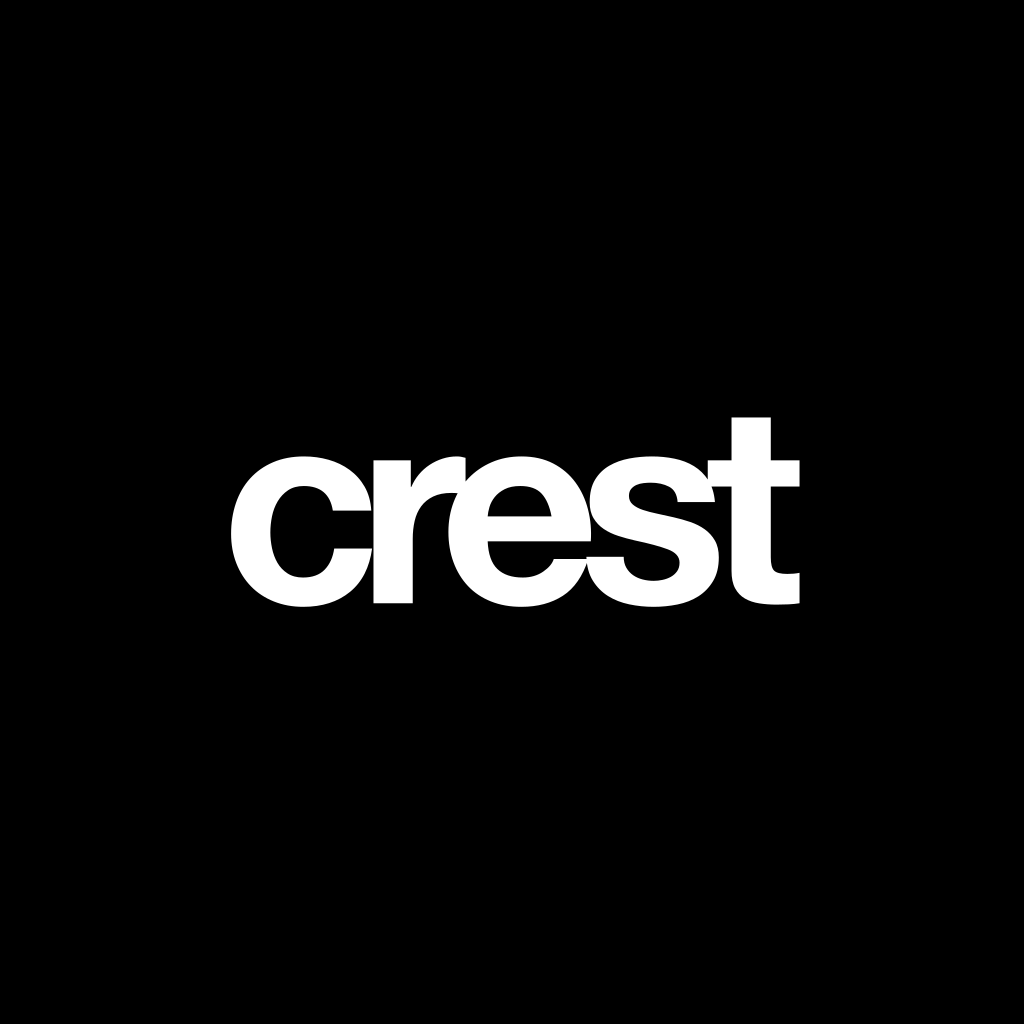
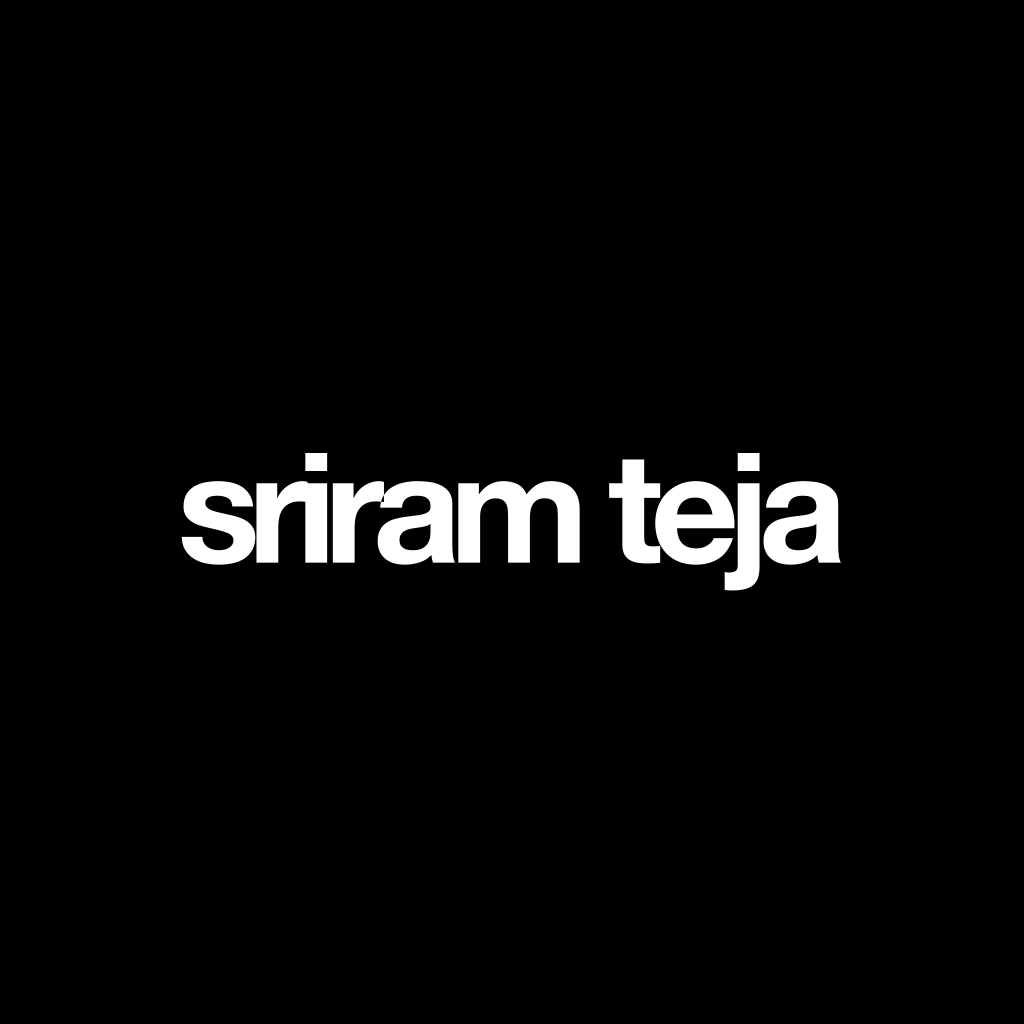
Rename app to sriram teja
- New wordmark, app icon, splash and web title
- Intro redrawn as stroked type for the new name (muted strokes, ink fill, curtain)
- Neutral onboarding copy; storage key migrated with a fallback to the old key

Changed region(s): [[0.1562, 0.4062, 0.8438, 0.5938]]

diff --git a/src/onboarding/Intro.tsx b/src/onboarding/Intro.tsx
@@ -1,23 +1,19 @@
 import React, { useEffect, useRef, useState } from 'react';
 import { Pressable, StyleSheet, Text, useWindowDimensions, View } from 'react-native';
-import Svg, { Path } from 'react-native-svg';
-import { color, touch, type } from '../theme/tokens';
+import Svg, { Defs, LinearGradient, Stop, Text as SvgText } from 'react-native-svg';
+import { color, font, touch, type } from '../theme/tokens';
 
-/** Monoline lowercase "crest", drawn as strokes. viewBox 0 0 200 100. */
-const LETTERS: string[][] = [
-  ['M47 47 A20 20 0 1 0 47 73'], // c
-  ['M58 40 L58 80', 'M58 55 Q61 41 76 41'], // r
-  ['M80 60 L118 60 A19 19 0 1 0 113 73'], // e
-  ['M148 45 Q143 40 137 40 Q127 40 127 50 Q127 57 138 60 Q150 62 150 70 Q150 80 138 80 Q130 80 125 74'], // s
-  ['M164 26 L164 71 Q164 80 173 80 L179 80', 'M155 42 L179 42'], // t
-];
-const MUTED = ['#A7B39D', '#C9A58D', '#9EAFC2', '#CDBE9A', '#B9A2B3'];
-const DASH = 160;
-
-const T = { stagger: 140, draw: 720, inkStart: 1350, inkEnd: 1950, curtainStart: 2250, curtainEnd: 2850, done: 2900 };
+const WORD = 'sriram teja';
+/** long enough to cover each glyph outline, so every letter draws fully */
+const DASH = 220;
+const T = { draw: 1300, inkStart: 1250, inkEnd: 1900, curtainStart: 2250, curtainEnd: 2850, done: 2900 };
 
 const ease = (x: number) => (x <= 0 ? 0 : x >= 1 ? 1 : 1 - Math.pow(1 - x, 3));
 
+/**
+ * Coded intro: the wordmark's outlines are drawn as muted strokes, flooded
+ * with black ink, then a black curtain rises into the splash.
+ */
 export function Intro({ reduced, onDone }: { reduced: boolean; onDone: () => void }) {
   const { width, height } = useWindowDimensions();
   const [t, setT] = useState(reduced ? T.inkEnd : 0);
@@ -46,41 +42,44 @@ export function Intro({ reduced, onDone }: { reduced: boolean; onDone: () => voi
     // eslint-disable-next-line react-hooks/exhaustive-deps
   }, [reduced]);
 
+  const draw = ease(t / T.draw);
   const ink = ease((t - T.inkStart) / (T.inkEnd - T.inkStart));
   const curtain = reduced ? 0 : ease((t - T.curtainStart) / (T.curtainEnd - T.curtainStart));
-  const w = Math.min(width * 0.62, 320);
+  const w = Math.min(width * 0.8, 380);
+  const fs = 56;
 
   return (
-    <View style={[StyleSheet.absoluteFill, { backgroundColor: color.paper, alignItems: 'center', justifyContent: 'center' }]} accessibilityLabel="crest">
-      <Svg width={w} height={w * 0.4} viewBox="0 15 186 74">
-        {LETTERS.map((paths, i) =>
-          paths.map((d, k) => {
-            const p = ease((t - i * T.stagger - k * 120) / T.draw);
-            return (
-              <Path
-                key={`m${i}${k}`}
-                d={d}
-                fill="none"
-                stroke={MUTED[i]}
-                strokeWidth={3}
-                strokeLinecap="round"
-                strokeLinejoin="round"
-                strokeDasharray={`${DASH} ${DASH}`}
-                strokeDashoffset={DASH * (1 - p)}
-                opacity={1 - ink * 0.9}
-              />
-            );
-          }),
-        )}
-        {ink > 0 &&
-          LETTERS.flat().map((d, i) => (
-            <Path key={`i${i}`} d={d} fill="none" stroke={color.ink} strokeWidth={3 + ink * 6.5} strokeLinecap="round" strokeLinejoin="round" opacity={ink} />
-          ))}
+    <View style={[StyleSheet.absoluteFill, { backgroundColor: color.paper, alignItems: 'center', justifyContent: 'center' }]} accessibilityLabel="sriram teja">
+      <Svg width={w} height={w * 0.3} viewBox="0 0 300 90">
+        <Defs>
+          <LinearGradient id="introMuted" x1="0" y1="0" x2="1" y2="0">
+            <Stop offset="0" stopColor="#A7B39D" />
+            <Stop offset="0.3" stopColor="#C9A58D" />
+            <Stop offset="0.55" stopColor="#9EAFC2" />
+            <Stop offset="0.8" stopColor="#CDBE9A" />
+            <Stop offset="1" stopColor="#B9A2B3" />
+          </LinearGradient>
+        </Defs>
+        <SvgText
+          x="150"
+          y="60"
+          textAnchor="middle"
+          fontFamily={font}
+          fontWeight="700"
+          fontSize={fs}
+          letterSpacing={-fs * 0.07}
+          fill={color.ink}
+          fillOpacity={ink}
+          stroke={ink > 0.6 ? color.ink : 'url(#introMuted)'}
+          strokeWidth={1.4}
+          strokeLinejoin="round"
+          strokeDasharray={`${DASH} ${DASH}`}
+          strokeDashoffset={DASH * (1 - draw)}
+        >
+          {WORD}
+        </SvgText>
       </Svg>
-      <View
-        pointerEvents="none"
-        style={{ position: 'absolute', left: 0, right: 0, bottom: 0, height: height * curtain, backgroundColor: color.black }}
-      />
+      <View pointerEvents="none" style={{ position: 'absolute', left: 0, right: 0, bottom: 0, height: height * curtain, backgroundColor: color.black }} />
       <Pressable accessibilityRole="button" onPress={finish} style={styles.skip} hitSlop={12}>
         <Text style={[type.label, { color: curtain > 0.9 ? color.onBlackMuted : color.muted }]}>skip</Text>
       </Pressable>

diff --git a/src/onboarding/Steps.tsx b/src/onboarding/Steps.tsx
@@ -26,14 +26,14 @@ export function Frame({ children, footer }: { children: React.ReactNode; footer?
 
 export function Explain({ onNext }: { onNext: () => void }) {
   const rows = [
-    ['01', 'add outfit photos', 'crest reads the photos you choose, nothing else.'],
+    ['01', 'add outfit photos', 'only the photos you choose are read, nothing else.'],
     ['02', 'every piece, lifted out', 'each garment becomes its own clean cutout. repeats are merged.'],
     ['03', 'style what you own', 'ask your stylist for a look, a trip, or the things you forgot.'],
   ];
   return (
     <Frame footer={<Button tone="onBlack" label="continue" onPress={onNext} />}>
       <View style={{ padding: 20, paddingTop: 48, gap: 28 }}>
-        <Text style={[type.display, { color: color.onBlack }]}>how crest works.</Text>
+        <Text style={[type.display, { color: color.onBlack }]}>how it works.</Text>
         {rows.map(([n, title, body]) => (
           <View key={n} style={{ flexDirection: 'row', gap: 16 }}>
             <Text style={[type.label, { color: color.onBlackFaint, width: 24 }]}>{n}</Text>
@@ -109,18 +109,18 @@ export function Source({ onPhotos, onDemo }: { onPhotos: (uris: string[], limite
       <View style={{ padding: 20, paddingTop: 48, gap: 12 }}>
         <Text style={[type.display, { color: color.onBlack }]}>start with your photos.</Text>
         <Text style={[type.body, { color: color.onBlackMuted }]}>
-          pick outfit photos from your camera roll. you choose which ones; crest never browses your library.
+          pick outfit photos from your camera roll. you choose which ones; your library is never browsed.
         </Text>
         <Text style={[type.small, { color: color.onBlackMuted, marginTop: 8 }]}>
-          the demo closet is a bundled sample wardrobe for trying crest. none of it comes from your photos.
+          the demo closet is a bundled sample wardrobe to try things out. none of it comes from your photos.
         </Text>
         {s.kind === 'denied' ? (
           <Notice
             title="photo access is off."
             body={
               s.canAskAgain
-                ? 'crest needs permission to show the photo picker. you can ask again, or carry on with the demo.'
-                : 'turn on photo access for crest in settings, or carry on with the demo closet.'
+                ? 'photo permission is needed to show the photo picker. you can ask again, or carry on with the demo.'
+                : 'turn on photo access for this app in settings, or carry on with the demo closet.'
             }
           />
         ) : null}
@@ -233,7 +233,7 @@ export function RealScanStep({ uris, limited, onDone }: { uris: string[]; limite
           <Text style={[type.micro, { color: color.onBlack }]}>your photos · {uris.length} selected</Text>
         </View>
         <Text style={[type.display, { color: color.onBlack }]}>reading your photos.</Text>
-        {limited ? <Text style={[type.small, { color: color.onBlackMuted }]}>limited access: crest can only see the photos you shared.</Text> : null}
+        {limited ? <Text style={[type.small, { color: color.onBlackMuted }]}>limited access: only the photos you shared are visible.</Text> : null}
         <View style={{ flexDirection: 'row', flexWrap: 'wrap', gap: 4, width: contentW }}>
           {Array.from({ length: 12 }, (_, i) => (
             <View key={i} style={{ width: tile, height: tile, backgroundColor: color.surfaceDark }}>
@@ -359,7 +359,7 @@ export function RealReview({
         <Text style={[type.display, { color: color.onBlack }]}>review.</Text>
         <Text style={[type.body, { color: color.onBlack }]}>{reason}</Text>
         <Text style={[type.small, { color: color.onBlackMuted }]}>
-          crest won’t guess. if a photo shows a single piece, tag it below and it’ll be added as-is (not cut out). otherwise use the demo closet to explore.
+          nothing is guessed. if a photo shows a single piece, tag it below and it’ll be added as-is (not cut out). otherwise use the demo closet to explore.
         </Text>
         {uris.map((u, i) => (
           <View key={u + i} style={{ flexDirection: 'row', gap: 12 }}>

diff --git a/src/storage/store.tsx b/src/storage/store.tsx
@@ -6,7 +6,9 @@ import { localDate, uid } from './util';
 
 export { emptyStylist };
 
-const KEY = 'crest/v1';
+const KEY = 'sriramteja/v1';
+/** earlier builds saved here; read once so existing closets carry over */
+const LEGACY_KEY = 'crest/v1';
 
 export const initialState = (): WardrobeState => ({
   version: 1,
@@ -110,6 +112,7 @@ export function StoreProvider({ children }: { children: React.ReactNode }) {
     let alive = true;
     setStatus('loading');
     AsyncStorage.getItem(KEY)
+      .then(async (raw) => raw ?? (await AsyncStorage.getItem(LEGACY_KEY)))
       .then((raw) => {
         if (!alive) return;
         if (raw) {
@@ -168,7 +171,7 @@ export function StoreProvider({ children }: { children: React.ReactNode }) {
 
   const logout = useCallback(async () => {
     try {
-      await AsyncStorage.removeItem(KEY);
+      await AsyncStorage.multiRemove([KEY, LEGACY_KEY]);
     } catch {
       // still reset in memory
     }

diff --git a/src/components/ui.tsx b/src/components/ui.tsx
@@ -8,7 +8,7 @@ export function Wordmark({ tone = 'dark', size = 17 }: { tone?: 'dark' | 'light'
       accessibilityRole="header"
       style={[type.title, { fontSize: size, lineHeight: size * 1.15, fontWeight: '700', letterSpacing: -size * 0.07, color: tone === 'dark' ? color.ink : color.onBlack }]}
     >
-      crest
+      sriram teja
     </Text>
   );
 }

diff --git a/src/stylist/engine.ts b/src/stylist/engine.ts
@@ -1,5 +1,5 @@
 /**
- * crest stylist: an on-device, rule-based stylist grounded in the user's closet.
+ * stylist: an on-device, rule-based stylist grounded in the user's closet.
  *
  * It parses intent (look / anchor / unworn / similar / pack / follow-up),
  * asks for clarification when a request is ambiguous, and composes looks only

diff --git a/app.config.js b/app.config.js
@@ -1,4 +1,4 @@
-// Lets hosts serve crest from a sub-path (e.g. GitHub Pages at /dress)
+// Lets hosts serve the app from a sub-path (e.g. GitHub Pages at /dress)
 // without changing local dev, Expo Go, Replit or Netlify, which use the root.
 module.exports = ({ config }) => ({
   ...config,

diff --git a/README.md b/README.md
@@ -1,4 +1,6 @@
-# crest
+# sriram teja
+
+Created by Sriram Teja Singaraju.
 
 Digital wardrobe and conversational personal stylist. Expo SDK 58, React Native 0.88, TypeScript, Expo Router.
 
@@ -50,7 +52,7 @@ These are deliberately not presented as production features:
 
 - **Garment extraction from real photos is not connected.** `extractFromPhotos` returns `unavailable` and the app says so. It never invents detections. Users can tag a single-piece photo by category, and it's added as-is, labelled "not cut out". To make this real, plug a segmentation/detection service (for example a vision model returning masks per garment) into `src/extraction/extractor.ts` and feed its output through the existing `dedupe()`.
 - **The demo closet is bundled sample data.** It has 85 vector-drawn garments, 32 outfit boards and a deterministic wear history. Its "scan" replays the boards' known contents, and the confidence scores are simulated so the review step has pieces to check. It's labelled "demo scan · bundled sample outfits" throughout.
-- **The original crest assets weren't available.** The 188-item catalog, outfit boards, menswear photos and logo files weren't in this workspace, so this build uses procedurally drawn garments and a typeset wordmark/icon. Swap in real cutouts by giving garments `image: { type: 'photo', uri }` (transparent PNGs), or extend `GarmentArt`.
+- **No original garment assets were available.** A real catalog, outfit boards, menswear photos and logo files weren't in this workspace, so this build uses procedurally drawn garments and a typeset wordmark/icon. Swap in real cutouts by giving garments `image: { type: 'photo', uri }` (transparent PNGs), or extend `GarmentArt`.
 - **The stylist is rule-based and runs on-device**, with no LLM. It handles occasions, anchors, follow-ups, clarification, unworn pieces, similar pieces and packing, all grounded in the closet. `respond()` in `src/stylist/engine.ts` is the seam for a model-backed stylist.
 - **There's no live weather.** The stylist uses weather words from the message, otherwise a seasonal assumption, and says so.
 - **Voice** uses the Web Speech API on web. Expo Go has no speech-recognition module, so on native the mic explains this and points to keyboard dictation, which feeds the same chat. Native voice needs a development build with a speech-recognition module.
